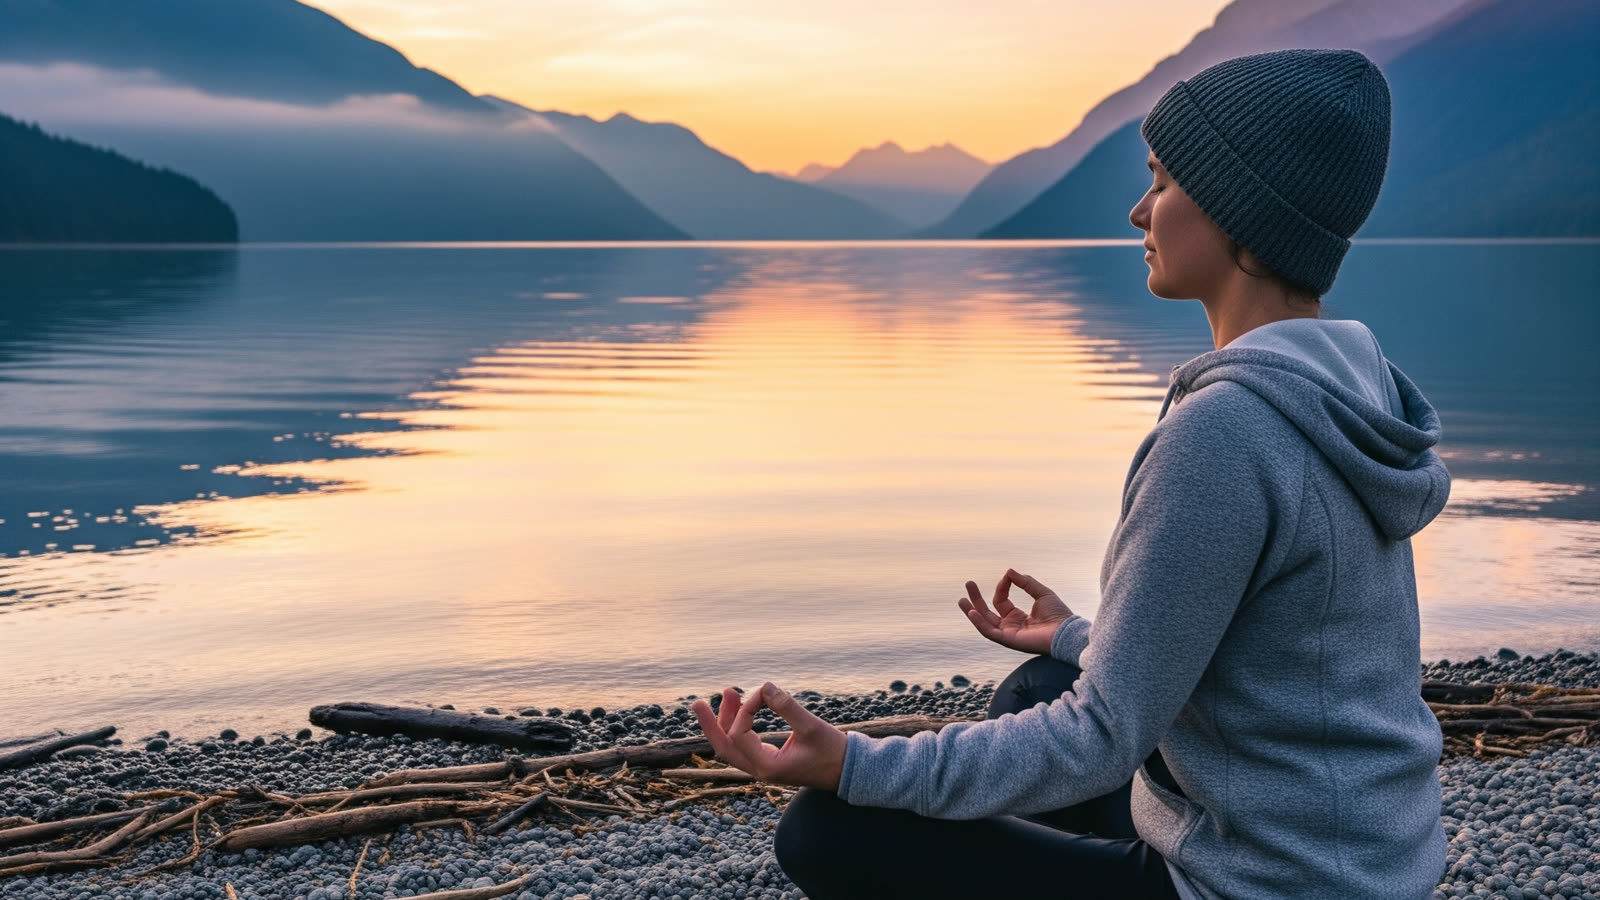
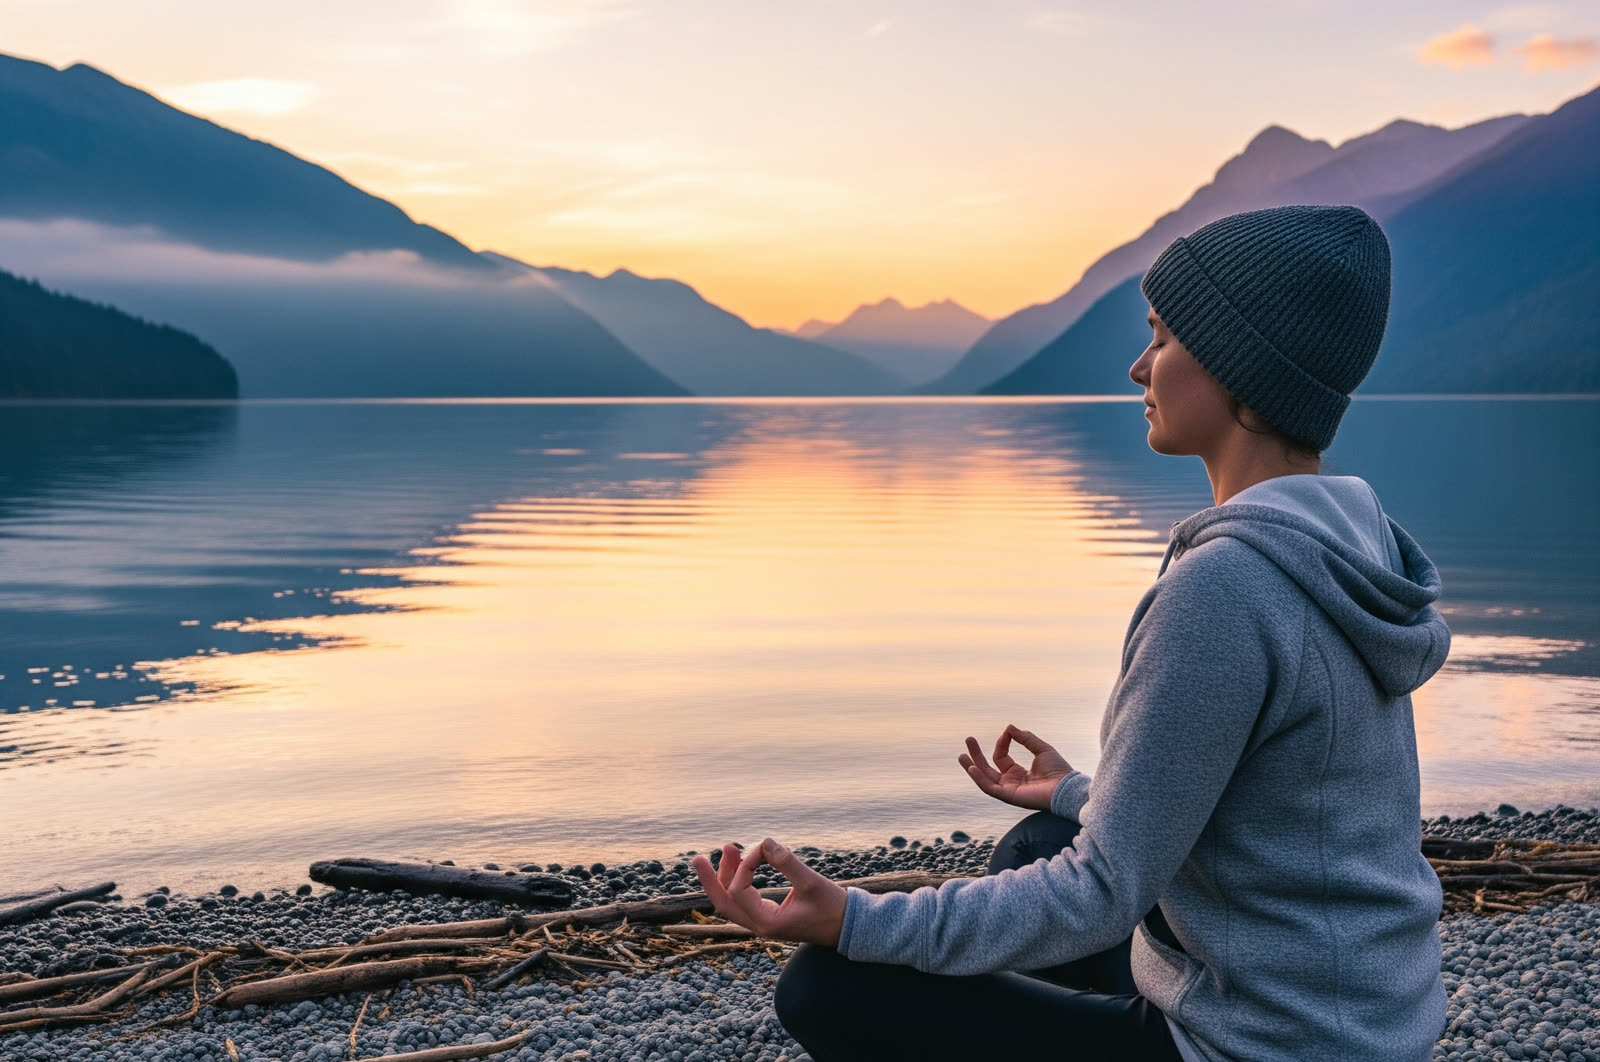
hero: fix cropped heads on personal-coaching + treatments
- calm-hero re-cropped from the 2048px original with headroom above the head
- object-position tuned (coaching 46%, treatments 25%)
- photo-heroes grow with the viewport above 1440px so wide screens stop
  squeezing a thin band out of the photo

diff --git a/css/style.css b/css/style.css
@@ -763,6 +763,11 @@ h3{font-size:1.25rem}
   position:relative;overflow:hidden;isolation:isolate;
   padding:clamp(180px,24vw,300px) 0 clamp(30px,3.8vw,42px);
 }
+/* on wide screens grow the hero with the viewport, so the cover-crop keeps the
+   subject (head!) in frame instead of squeezing a thin band out of the photo */
+@media(min-width:1441px){
+  .page-hero.photo-hero{padding-top:clamp(300px,calc(300px + (100vw - 1440px)*.34),560px)}
+}
 .photo-hero .ph-bg{
   position:absolute;inset:0;z-index:-2;width:100%;height:100%;
   object-fit:cover;object-position:var(--pos,50% 38%);filter:brightness(1.07);

diff --git a/treatments.html b/treatments.html
@@ -95,7 +95,7 @@
   </div>
 </header>
 
-<section class="page-hero photo-hero" style="--pos:50% 45%;--pos-m:62% 45%">
+<section class="page-hero photo-hero" style="--pos:50% 25%;--pos-m:62% 45%">
   <img class="ph-bg" src="assets/calm-hero.jpg" alt="אישה יושבת במדיטציה מול אגם שקט בזריחה - רוגע ואיזון נפשי" fetchpriority="high">
   <div class="container ph-content">
     <h1>טיפולים נוספים</h1>

diff --git a/personal-coaching.html b/personal-coaching.html
@@ -95,7 +95,7 @@
   </div>
 </header>
 
-<section class="page-hero photo-hero" style="--pos:50% 64%;--pos-m:50% 66%">
+<section class="page-hero photo-hero" style="--pos:50% 46%;--pos-m:50% 66%">
   <img class="ph-bg" src="assets/coaching-hero.jpg" alt="דמות בזריחה עם ידיים פתוחות מול הנוף - אימון אישי והתפתחות" fetchpriority="high">
   <div class="container ph-content">
     <h1>אימון אישי</h1>

diff --git a/about.html b/about.html
@@ -95,7 +95,7 @@
   </div>
 </header>
 
-<section class="page-hero photo-hero ph-top" style="--pos:50% 62%;--pos-m:50% 56%">
+<section class="page-hero photo-hero ph-top" style="--pos:50% 42%;--pos-m:50% 46%">
   <img class="ph-bg" src="assets/about-hero.jpg" alt="קבוצת אנשים יושבת במעגל על הדשא בשיחה פתוחה באור שקיעה" fetchpriority="high">
   <div class="container ph-content">
     <h1>מי אני</h1>
